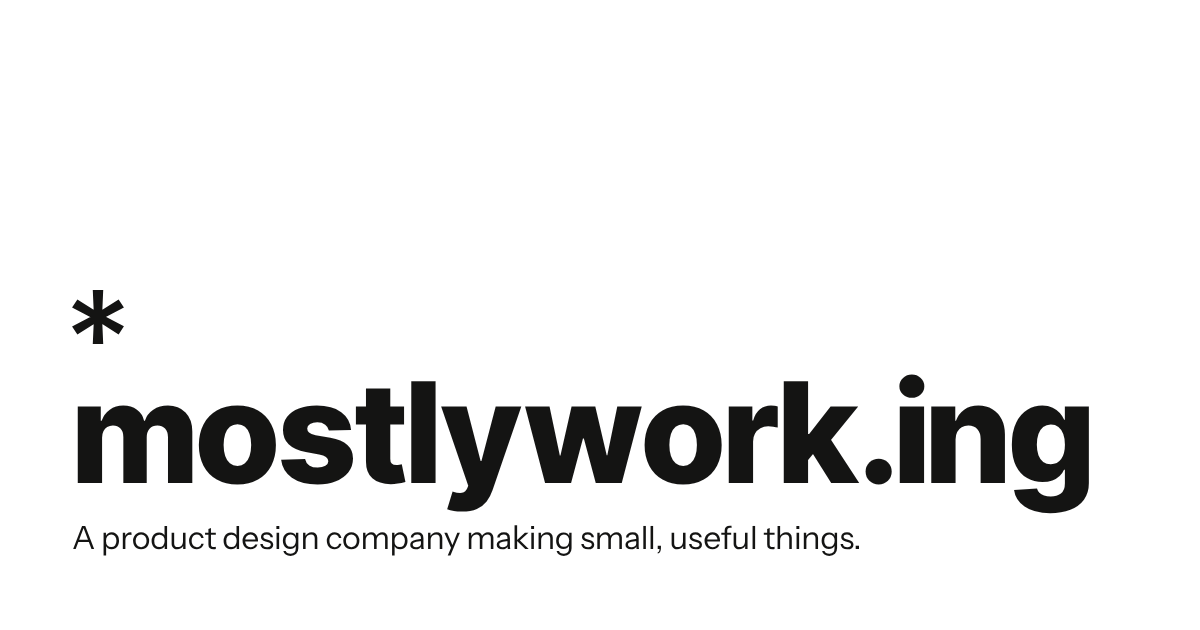
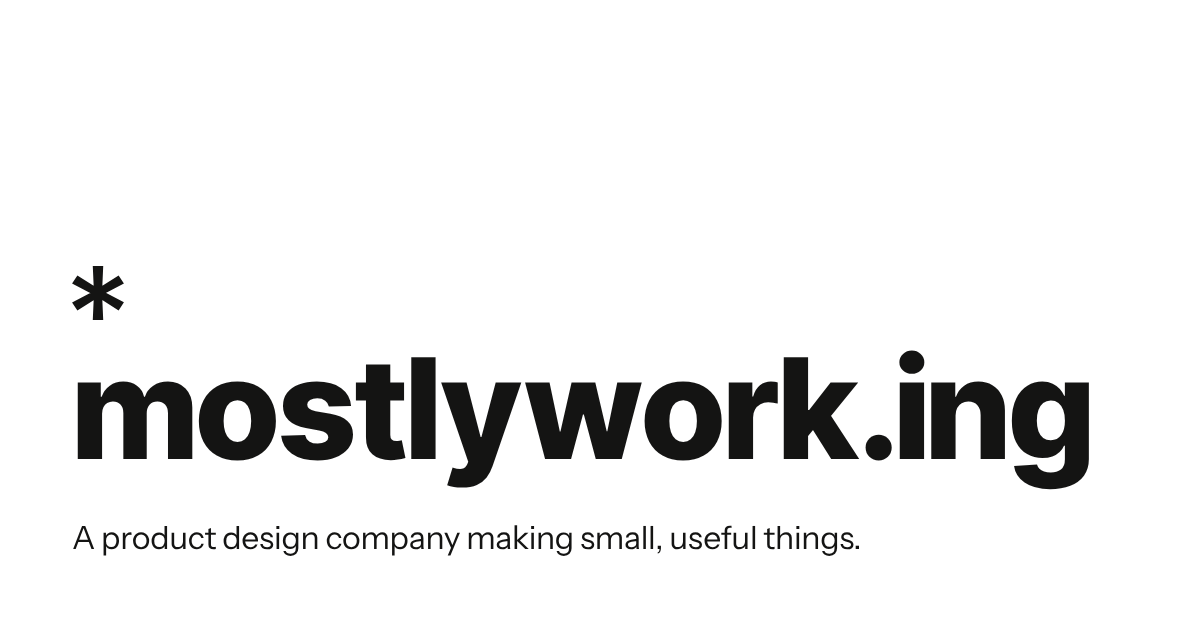
Space the lede and contact from the heading's tails, not its box
The heading's tight line box (0.82) ends above the y and g tails, which
hang about 0.175em below it, while the gap below the box is capped at
48px. So the clearance to the lede and contact block shrank as the
screen widened (22px at 1440, 10px at 1920) and would touch on wide
monitors. The heading now carries bottom padding equal to the
overhang (0.175em; 0.085em in the two-line phone stack at line-height
1), so what follows is spaced from the tails. Measured in Chromium and
WebKit, the tails end within 1px of the box and the clearance is 28–56px
at every width. Same fix on the 404 and in og.png.

Claude-Session: https://claude.ai/code/session_017UFRXYQtUMif1BB6ZR5QC6

Changed region(s): [[0.0617, 0.5429, 0.925, 0.8143], [0.0617, 0.4222, 0.1233, 0.5429], [0.6475, 0.5429, 0.6783, 0.6032]]

diff --git a/styles.css b/styles.css
@@ -164,6 +164,10 @@ a {
   font-weight: 800;
   line-height: 0.82;
   letter-spacing: 0;
+  /* The tight line box ends above the y and g tails, which hang about
+     0.175em below it. Pad for them so what follows is spaced from the
+     tails, not the box (at 0.82 the tails sit 0.175em below the box). */
+  padding-bottom: 0.175em;
 }
 
 /* Hand kerning for the name. Inter Tight's own spacing of these pairs is
@@ -186,6 +190,8 @@ a {
     font-size: calc(100cqi / 4.12);
     /* Just enough to keep the y of "mostly" off the dot of the i */
     line-height: 1;
+    /* At line-height 1 the tails hang only 0.085em below the box */
+    padding-bottom: 0.085em;
   }
 }
 
@@ -194,6 +200,7 @@ a {
   max-width: 14ch;
   font-size: min(15.2cqi, calc(20px + 9.5cqi), 184px);
   line-height: 0.82;
+  padding-bottom: 0.175em;
   text-wrap: balance;
 }
 
